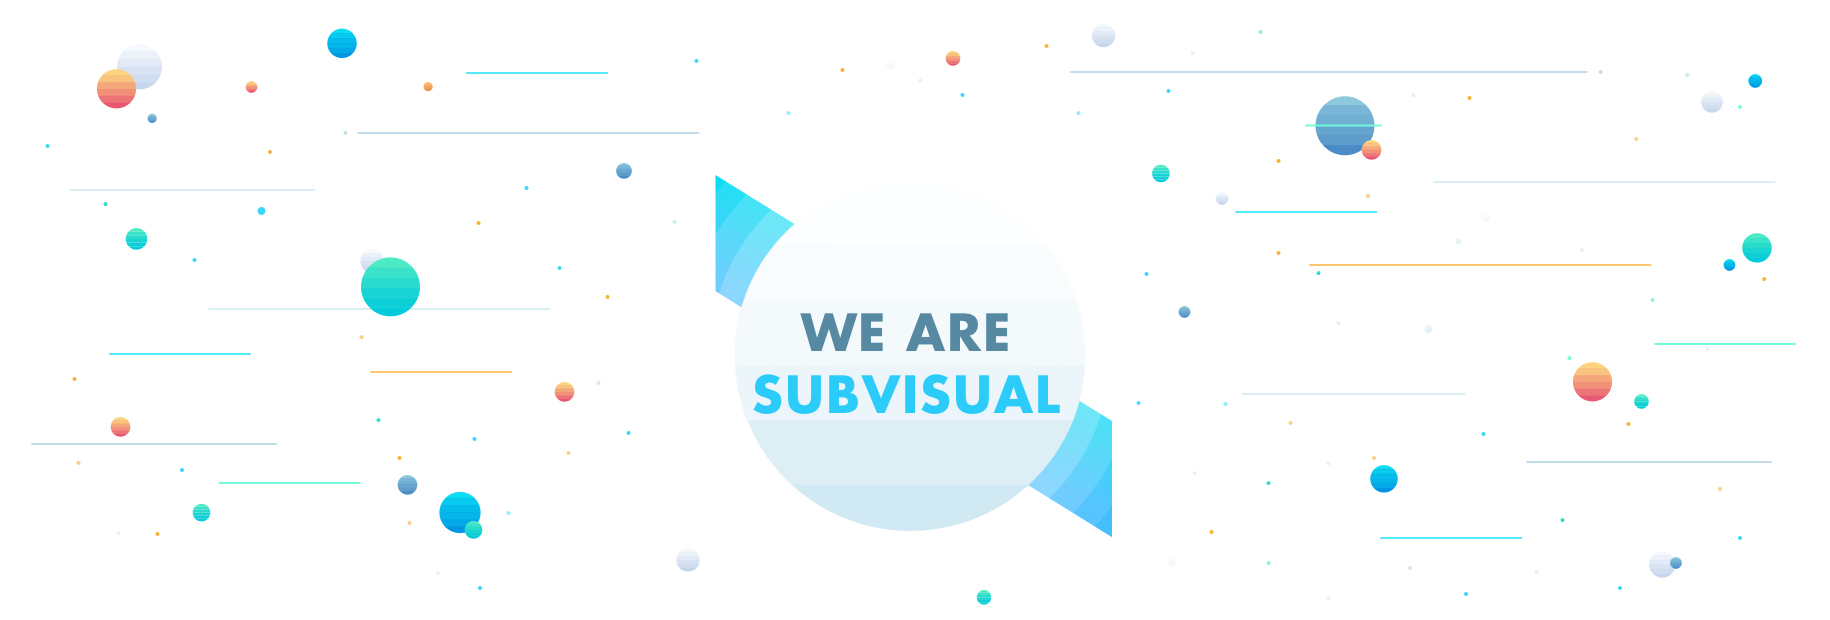
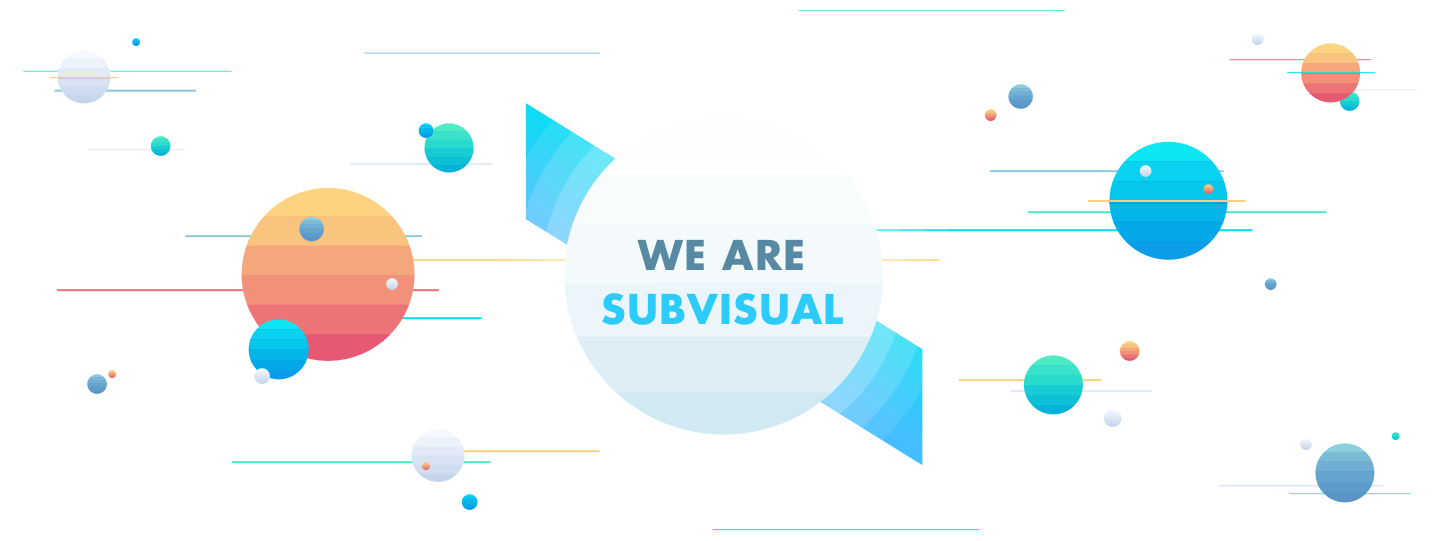
Changed homepage hero images

diff --git a/source/stylesheets/components/_panel.scss b/source/stylesheets/components/_panel.scss
@@ -37,7 +37,7 @@
 .Panel.Panel--home {
   @include background-image('homepage/hero-mobile.png');
 
-  padding-bottom: 79.06%;
+  padding-bottom: 84.38%;
 
   background-color: transparent;
   background-size: contain;
@@ -49,7 +49,7 @@
   @include media('>=tablet') {
     @include background-image('homepage/hero-image.png');
 
-    padding-bottom: 33.88%;
+    padding-bottom: 37.54%;
 
     @media (-o-min-device-pixel-ratio:5/4), (-webkit-min-device-pixel-ratio:1.2), (min-resolution:120dpi) {
       @include background-image('homepage/hero-image@2x.png');
